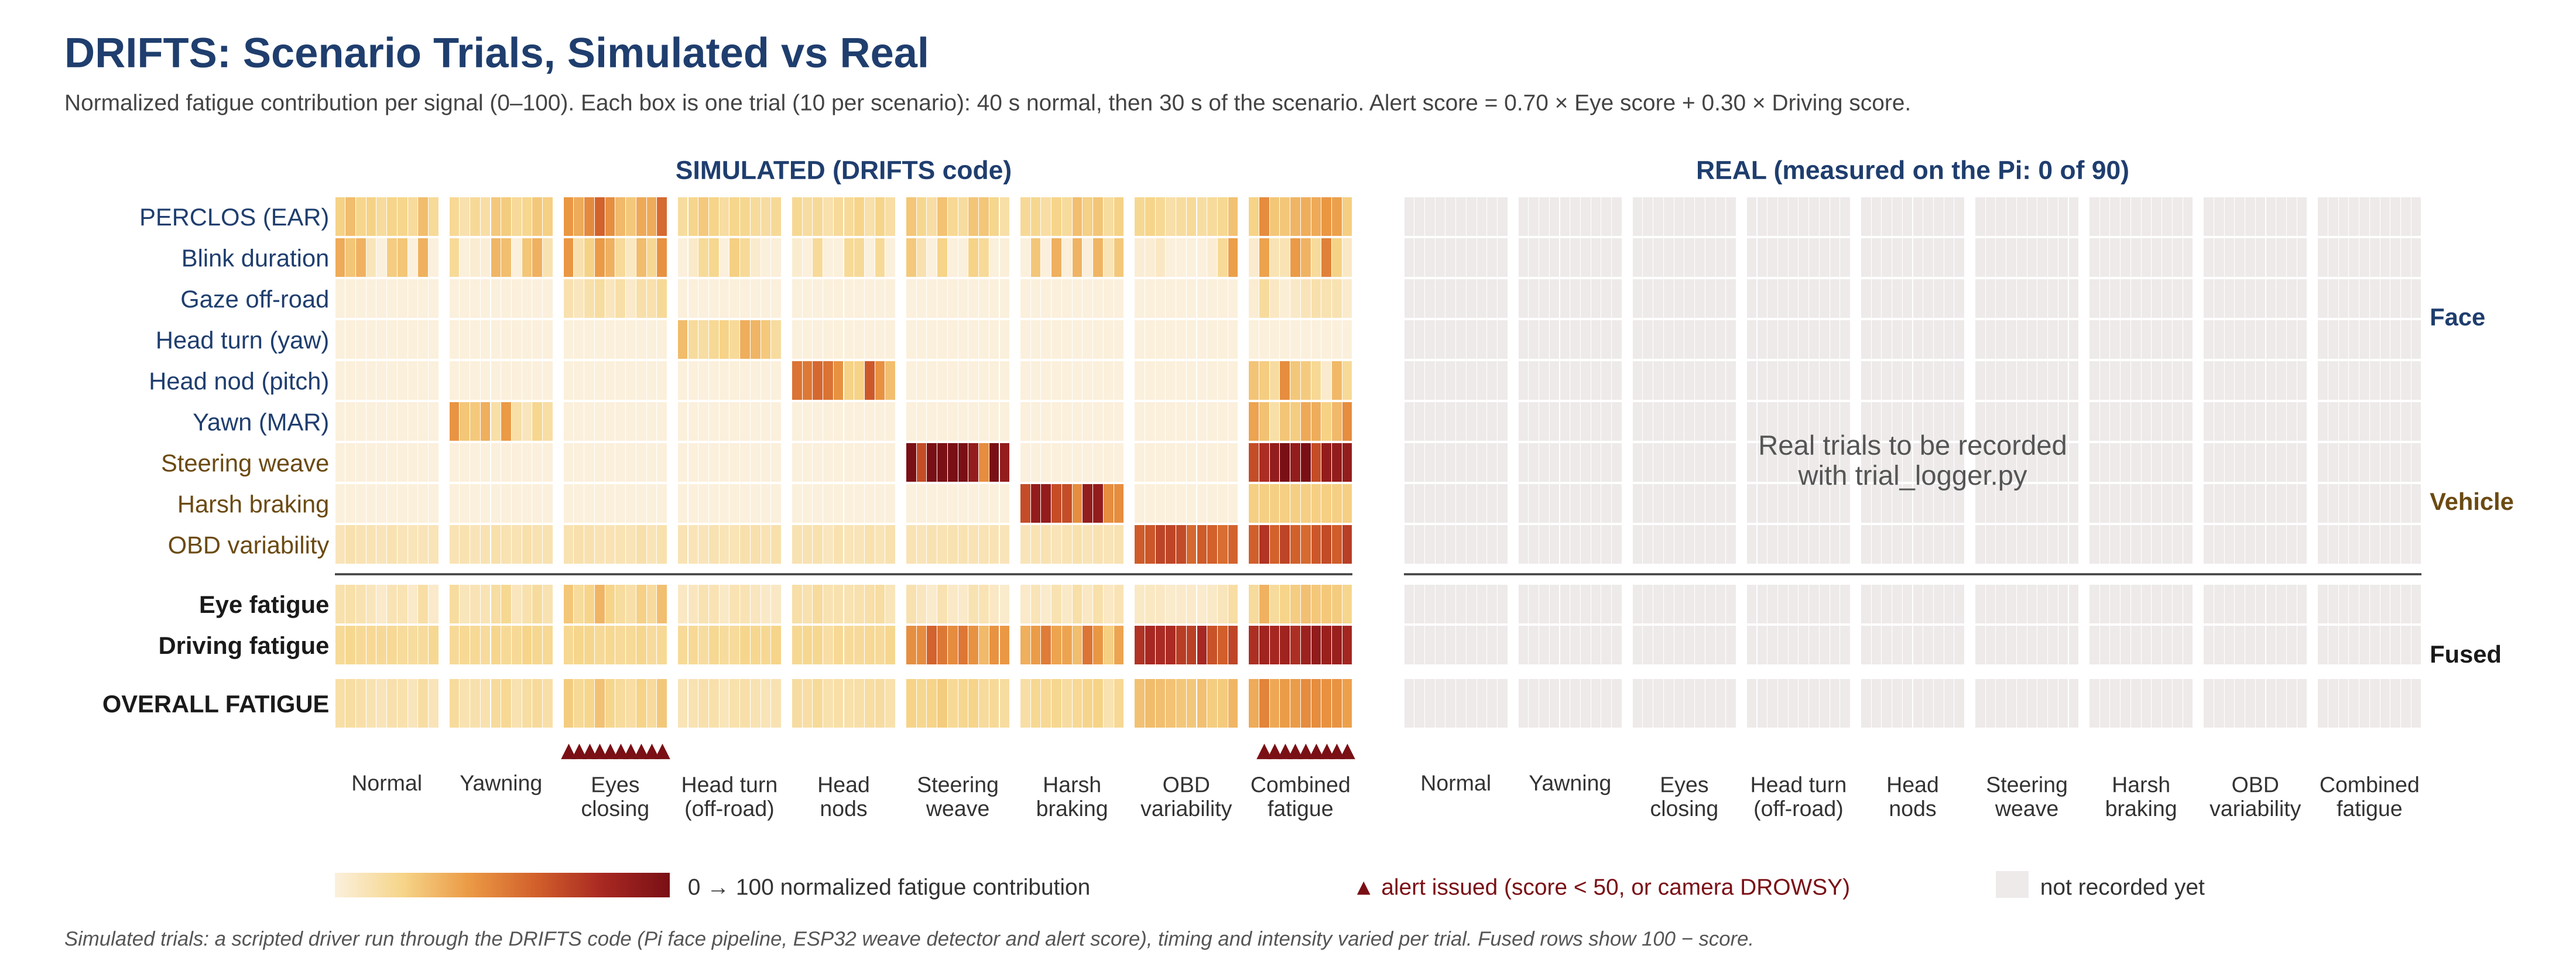
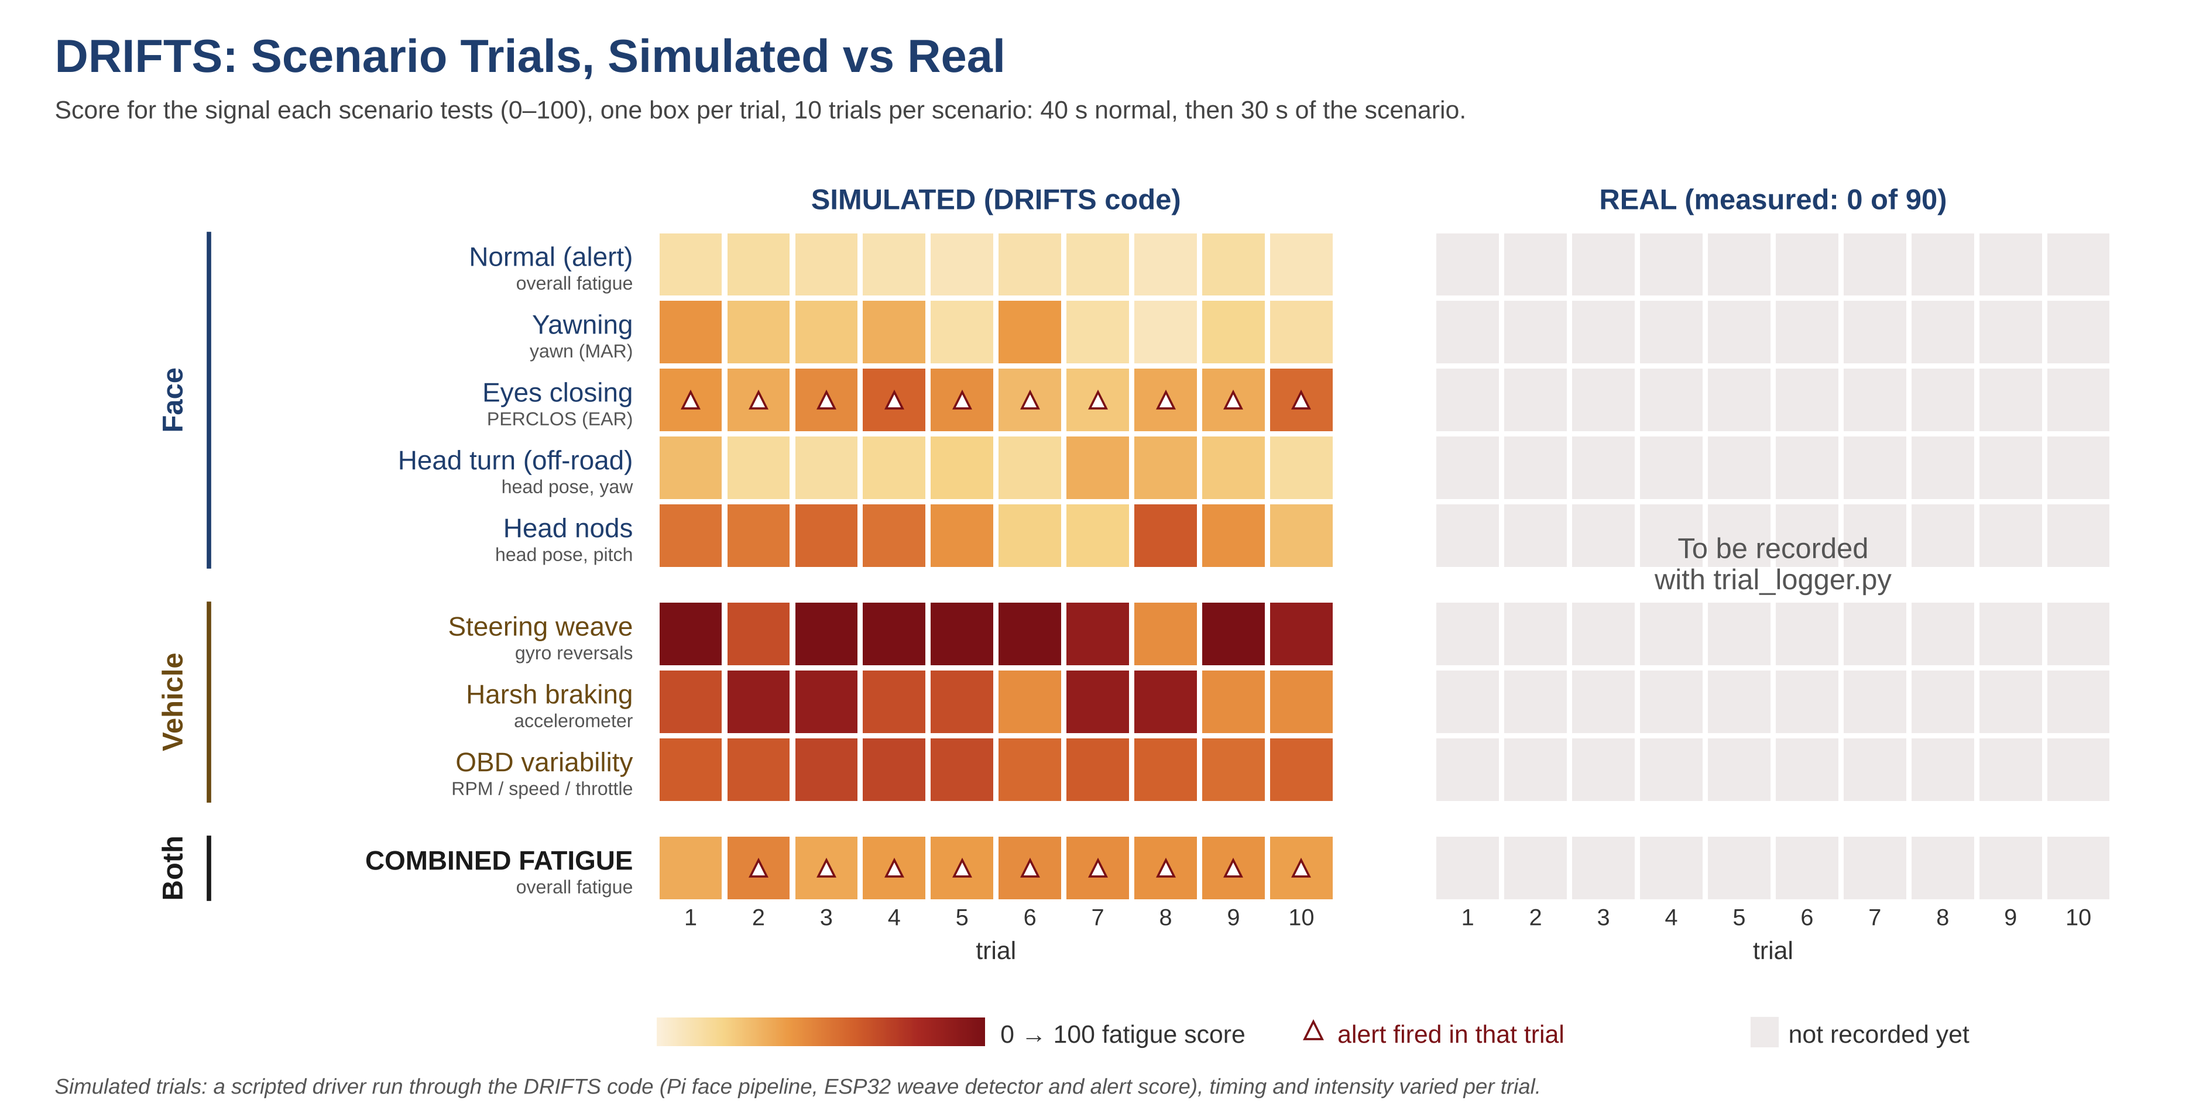
Scenario trials plot: scenarios on the y-axis (Face / Vehicle), trials across, one score per box

diff --git a/Tools/scenario_trials/plot_trials.py b/Tools/scenario_trials/plot_trials.py
@@ -1,6 +1,7 @@
-"""Heat map of scenario trials, simulated (left) and real (right).
-Rows = signals, columns = scenarios, one box per trial; each box is the
-signal's 0-100 fatigue contribution, ▲ = an alert fired in that trial.
+"""Scenario trials heat map, simulated (left) and real (right).
+Rows = scenarios (grouped Face / Vehicle), columns = trials 1..N.
+Each box is that trial's 0-100 score for the signal the scenario tests;
+▲ = an alert fired in that trial.
 
     python Tools/scenario_trials/plot_trials.py            # -> scenario_trials.png
 Reads sim_trials.csv (scenarios_sim.py) and real_trials.csv (trial_logger.py).
@@ -17,14 +18,18 @@ for f in fm.findSystemFonts():
         fm.fontManager.addfont(f)
 plt.rcParams["font.family"] = ["Liberation Sans", "DejaVu Sans"]
 HERE = Path(__file__).resolve().parent
-SCEN = [("normal", "Normal"), ("yawning", "Yawning"), ("eyes_closing", "Eyes\nclosing"), ("head_turn", "Head turn\n(off-road)"),
-        ("head_nods", "Head\nnods"), ("steering_weave", "Steering\nweave"), ("harsh_braking", "Harsh\nbraking"),
-        ("obd_variability", "OBD\nvariability"), ("combined", "Combined\nfatigue")]
 NAVY, BROWN, INK, GREY, RED = "#1F3E6E", "#6B4A12", "#1A1A1A", "#555555", "#7A1015"
-ROWS = [("perclos", "PERCLOS (EAR)", NAVY), ("blink", "Blink duration", NAVY), ("gaze", "Gaze off-road", NAVY),
-        ("yaw", "Head turn (yaw)", NAVY), ("pitch", "Head nod (pitch)", NAVY), ("yawn", "Yawn (MAR)", NAVY),
-        ("steer", "Steering weave", BROWN), ("brake", "Harsh braking", BROWN), ("obd", "OBD variability", BROWN),
-        ("eye_fatigue", "Eye fatigue", INK), ("driving_fatigue", "Driving fatigue", INK), ("overall_fatigue", "OVERALL FATIGUE", INK)]
+# (scenario, label, scored signal column, signal name, group)
+ROWS = [("normal", "Normal (alert)", "overall_fatigue", "overall fatigue", "Face"),
+        ("yawning", "Yawning", "yawn", "yawn (MAR)", "Face"),
+        ("eyes_closing", "Eyes closing", "perclos", "PERCLOS (EAR)", "Face"),
+        ("head_turn", "Head turn (off-road)", "yaw", "head pose, yaw", "Face"),
+        ("head_nods", "Head nods", "pitch", "head pose, pitch", "Face"),
+        ("steering_weave", "Steering weave", "steer", "gyro reversals", "Vehicle"),
+        ("harsh_braking", "Harsh braking", "brake", "accelerometer", "Vehicle"),
+        ("obd_variability", "OBD variability", "obd", "RPM / speed / throttle", "Vehicle"),
+        ("combined", "COMBINED FATIGUE", "overall_fatigue", "overall fatigue", "Fused")]
+GCOL = {"Face": NAVY, "Vehicle": BROWN, "Fused": INK}
 cmap = LinearSegmentedColormap.from_list("w", ["#FBF0DC", "#F6D58A", "#EB9A45", "#D2602B", "#A82822", "#7A1015"])
 
 
@@ -36,54 +41,57 @@ def load(name):
 def main(out="scenario_trials.png"):
     sim, real = load("sim_trials.csv"), load("real_trials.csv")
     n = max(int(r["trial"]) for r in sim)
-    G = 1.0
-    width = len(SCEN) * n + (len(SCEN) - 1) * G
-    ys, hs, y = [], [], 0.0
-    for i, (k, _, _) in enumerate(ROWS):
-        if i == 9: y += 0.45
-        if k == "overall_fatigue": y += 0.3
-        h = 1.25 if k == "overall_fatigue" else 1.0
-        ys.append(y); hs.append(h); y += h
-    fig = plt.figure(figsize=(22, 8.2), dpi=200)
-    fig.text(0.025, 0.93, "DRIFTS: Scenario Trials, Simulated vs Real", fontsize=26, fontweight="bold", color=NAVY)
-    fig.text(0.025, 0.885, f"Normalized fatigue contribution per signal (0–100). Each box is one trial ({n} per scenario): "
-             "40 s normal, then 30 s of the scenario. Alert score = 0.70 × Eye score + 0.30 × Driving score.", fontsize=14, color="#444444")
-    axs = [fig.add_axes([0.13, 0.20, 0.395, 0.60]), fig.add_axes([0.545, 0.20, 0.395, 0.60])]
-    for ax, data, title in ((axs[0], sim, "SIMULATED (DRIFTS code)"), (axs[1], real, f"REAL (measured on the Pi: {len(real)} of {len(SCEN) * n})")):
-        for si, (key, _) in enumerate(SCEN):
-            x0 = si * (n + G)
+    ys, y, prev = [], 0.0, None
+    for r in ROWS:
+        if prev and r[4] != prev: y += 0.45
+        ys.append(y); y += 1; prev = r[4]
+    fig = plt.figure(figsize=(17, 8.6), dpi=220)
+    fig.text(0.025, 0.935, "DRIFTS: Scenario Trials, Simulated vs Real", fontsize=26, fontweight="bold", color=NAVY)
+    fig.text(0.025, 0.893, f"Score for the signal each scenario tests (0–100), one box per trial, {n} trials per scenario: "
+             "40 s normal, then 30 s of the scenario.", fontsize=14, color="#444444")
+    axs = [fig.add_axes([0.30, 0.15, 0.31, 0.68]), fig.add_axes([0.655, 0.15, 0.31, 0.68])]
+    for ax, data, title in ((axs[0], sim, "SIMULATED (DRIFTS code)"),
+                            (axs[1], real, f"REAL (measured: {len(real)} of {len(ROWS) * n})")):
+        for (key, _, col, _, _), yy in zip(ROWS, ys):
             for t in range(n):
                 rec = next((r for r in data if r["scenario"] == key and int(r["trial"]) == t + 1), None)
-                for (col, _, _), yy, h in zip(ROWS, ys, hs):
-                    v = None if rec is None or rec.get(col, "") == "" else float(rec[col])
-                    ax.add_patch(plt.Rectangle((x0 + t + 0.03, yy + 0.03), 0.94, h - 0.06,
-                                               color="#EEEAEA" if v is None else cmap(v / 100), lw=0))
+                v = None if rec is None or rec.get(col, "") == "" else float(rec[col])
+                ax.add_patch(plt.Rectangle((t + 0.04, yy + 0.04), 0.92, 0.92, color="#EEEAEA" if v is None else cmap(v / 100), lw=0))
                 if rec is not None and rec.get("alert") == "1":
-                    ax.plot(x0 + t + 0.5, y + 0.55, marker="^", ms=8, color=RED, clip_on=False)
-        ax.set_xlim(0, width); ax.set_ylim(y + 0.95, -0.1)
-        ax.set_xticks([si * (n + G) + n / 2 for si in range(len(SCEN))])
-        ax.set_xticklabels([s[1] for s in SCEN], fontsize=13.5, color="#333333")
-        ax.tick_params(axis="x", length=0, pad=4); ax.tick_params(axis="y", length=0)
+                    ax.plot(t + 0.5, yy + 0.5, marker="^", ms=9, color="white", mec=RED, mew=1.2)
+        ax.set_xlim(0, n); ax.set_ylim(y, -0.05); ax.set_aspect("equal")
+        ax.set_xticks([t + 0.5 for t in range(n)]); ax.set_xticklabels([str(t + 1) for t in range(n)], fontsize=13, color="#333333")
+        ax.set_xlabel("trial", fontsize=14, color="#333333", labelpad=6)
+        ax.tick_params(length=0)
         for s in ax.spines.values(): s.set_visible(False)
-        ax.plot([0, width], [ys[9] - 0.22, ys[9] - 0.22], color="#444444", lw=1.3)
-        ax.set_title(title, fontsize=16, fontweight="bold", color=NAVY, loc="center", pad=8)
+        ax.set_title(title, fontsize=16, fontweight="bold", color=NAVY, pad=10)
         if not data:
-            ax.text(width / 2, y / 2, "Real trials to be recorded\nwith trial_logger.py", ha="center", va="center", fontsize=17, color=GREY)
-    axs[0].set_yticks([yy + h / 2 for yy, h in zip(ys, hs)]); axs[0].set_yticklabels([r[1] for r in ROWS], fontsize=15)
-    for lab, r in zip(axs[0].get_yticklabels(), ROWS):
-        lab.set_color(r[2]); lab.set_fontweight("bold" if r[2] == INK else "normal")
+            ax.text(n / 2, y / 2, "To be recorded\nwith trial_logger.py", ha="center", va="center", fontsize=16, color=GREY)
+    ax = axs[0]
+    ax.set_yticks([yy + 0.5 for yy in ys]); ax.set_yticklabels([""] * len(ys))
+    for (key, lab, _, sig, grp), yy in zip(ROWS, ys):
+        bold = grp == "Fused"
+        ax.text(-0.35, yy + 0.42, lab, ha="right", va="center", fontsize=15, color=GCOL[grp], fontweight="bold" if bold else "normal")
+        ax.text(-0.35, yy + 0.80, sig, ha="right", va="center", fontsize=10.5, color=GREY)
     axs[1].set_yticks([])
-    for txt, a, b, col in (("Face", 0, 5, NAVY), ("Vehicle", 6, 8, BROWN), ("Fused", 9, 11, INK)):
-        axs[1].text(width + 0.8, (ys[a] + ys[b] + hs[b]) / 2, txt, va="center", fontsize=15, fontweight="bold", color=col)
-    cax = fig.add_axes([0.13, 0.065, 0.13, 0.026])
+    groups = {}
+    for (_, _, _, _, g), yy in zip(ROWS, ys):
+        groups.setdefault(g, []).append(yy)
+    for g, yl in groups.items():
+        top, bot = min(yl) + 0.05, max(yl) + 0.95
+        ax.plot([-6.6, -6.6], [top, bot], color=GCOL[g], lw=2.5, clip_on=False)
+        ax.text(-6.9, (top + bot) / 2, g if g != "Fused" else "Both", rotation=90, ha="right", va="center",
+                fontsize=16, fontweight="bold", color=GCOL[g], clip_on=False)
+    cax = fig.add_axes([0.30, 0.055, 0.15, 0.026])
     cb = fig.colorbar(plt.cm.ScalarMappable(cmap=cmap, norm=plt.Normalize(0, 100)), cax=cax, orientation="horizontal")
     cb.outline.set_visible(False); cb.set_ticks([])
-    fig.text(0.267, 0.068, "0 → 100 normalized fatigue contribution", fontsize=14, color="#333333")
-    fig.text(0.525, 0.068, "▲ alert issued (score < 50, or camera DROWSY)", fontsize=14, color=RED)
-    fig.patches.append(plt.Rectangle((0.775, 0.066), 0.012, 0.026, color="#EEEAEA", transform=fig.transFigure))
-    fig.text(0.792, 0.068, "not recorded yet", fontsize=14, color="#333333")
-    fig.text(0.025, 0.015, "Simulated trials: a scripted driver run through the DRIFTS code (Pi face pipeline, ESP32 weave detector and alert score), "
-             "timing and intensity varied per trial. Fused rows show 100 − score.", fontsize=12.5, color=GREY, style="italic")
+    fig.text(0.457, 0.058, "0 → 100 fatigue score", fontsize=14, color="#333333")
+    fig.lines.append(plt.Line2D([0.60], [0.069], marker="^", ms=10, color="white", mec=RED, mew=1.2, transform=fig.transFigure))
+    fig.text(0.611, 0.058, "alert fired in that trial", fontsize=14, color=RED)
+    fig.patches.append(plt.Rectangle((0.80, 0.055), 0.012, 0.026, color="#EEEAEA", transform=fig.transFigure))
+    fig.text(0.817, 0.058, "not recorded yet", fontsize=14, color="#333333")
+    fig.text(0.025, 0.012, "Simulated trials: a scripted driver run through the DRIFTS code (Pi face pipeline, ESP32 weave detector and alert score), "
+             "timing and intensity varied per trial.", fontsize=12, color=GREY, style="italic")
     fig.savefig(HERE / out, facecolor="white")
     print("wrote", HERE / out)
 

diff --git a/Tools/scenario_trials/README.md b/Tools/scenario_trials/README.md
@@ -1,9 +1,10 @@
 # Scenario trials: simulated vs real
 
 One heat map, two panels: **simulated** trials (left) and **real** trials
-measured on the Pi (right). Rows are the signals DRIFTS scores; columns are
-the scenarios; each box is one trial, so a row of boxes shows how repeatable
-the response is.
+measured on the Pi (right). Rows are the scenarios, grouped Face / Vehicle;
+columns are trials 1-N. Each box is that trial's 0-100 score for the signal
+the scenario tests (named under each row), so a row of boxes shows how
+repeatable the response is; ▲ marks a trial in which the alert fired.
 
 ![scenario trials](scenario_trials.png)
 
